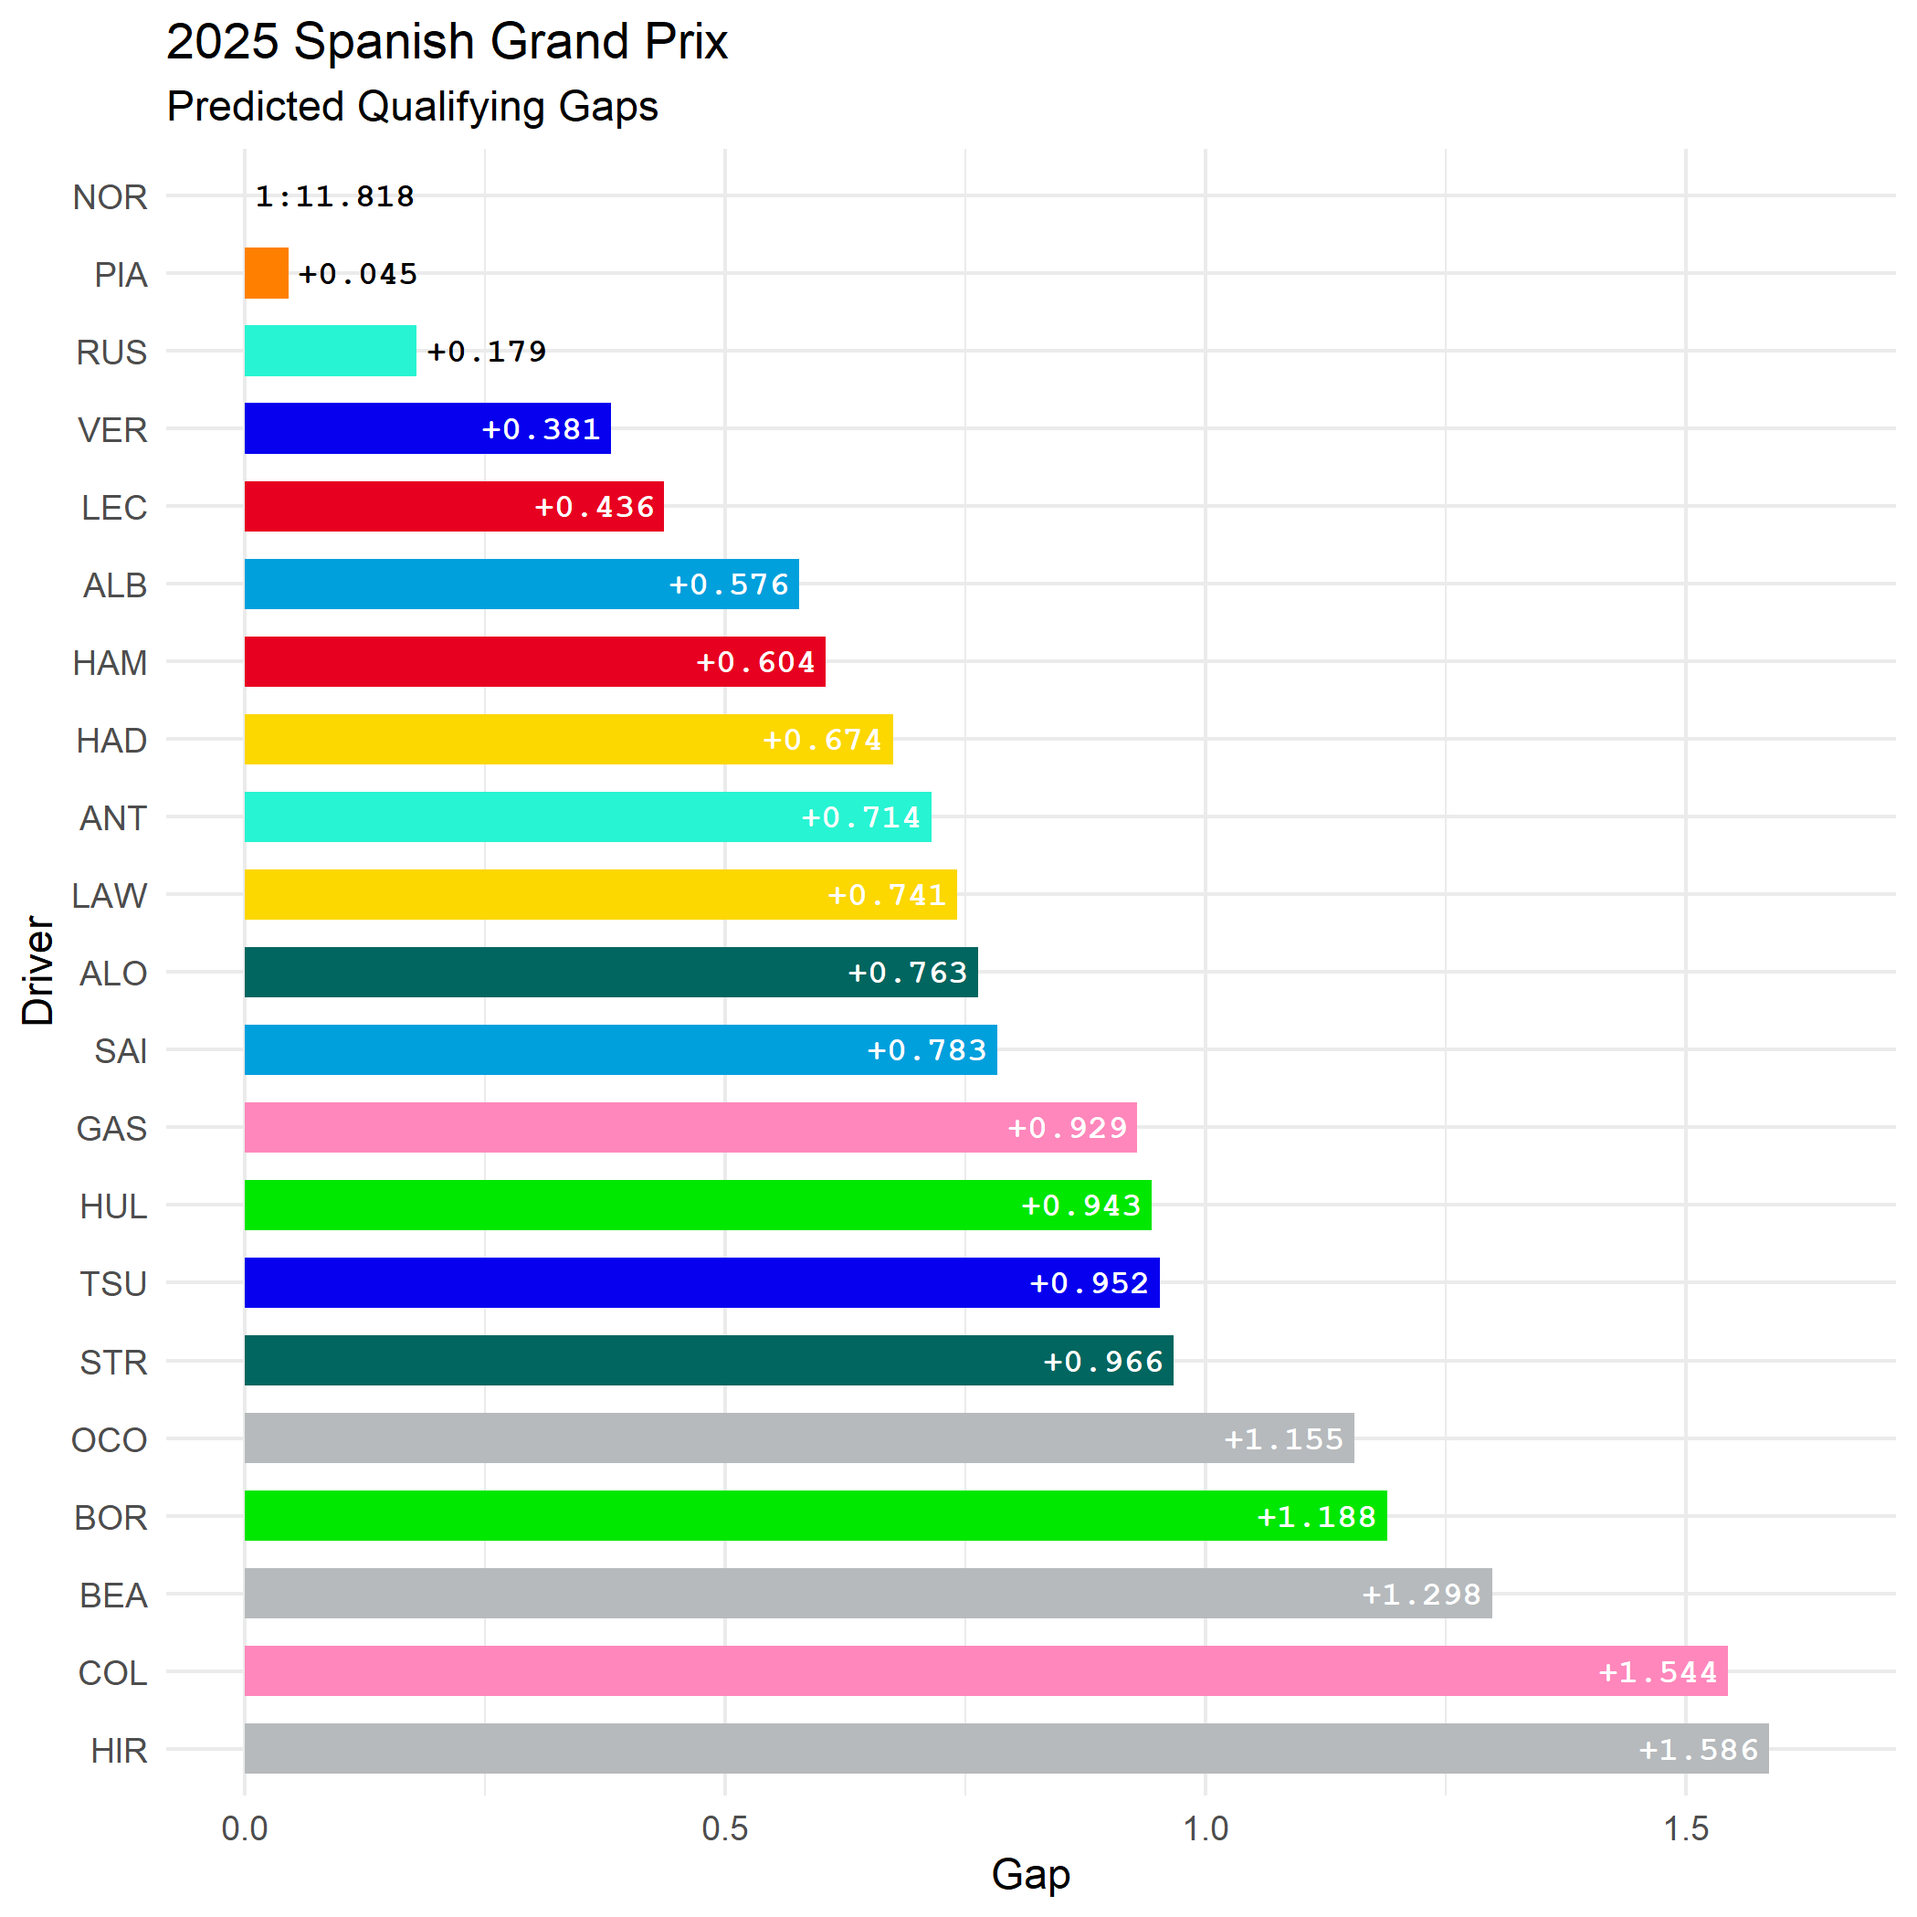
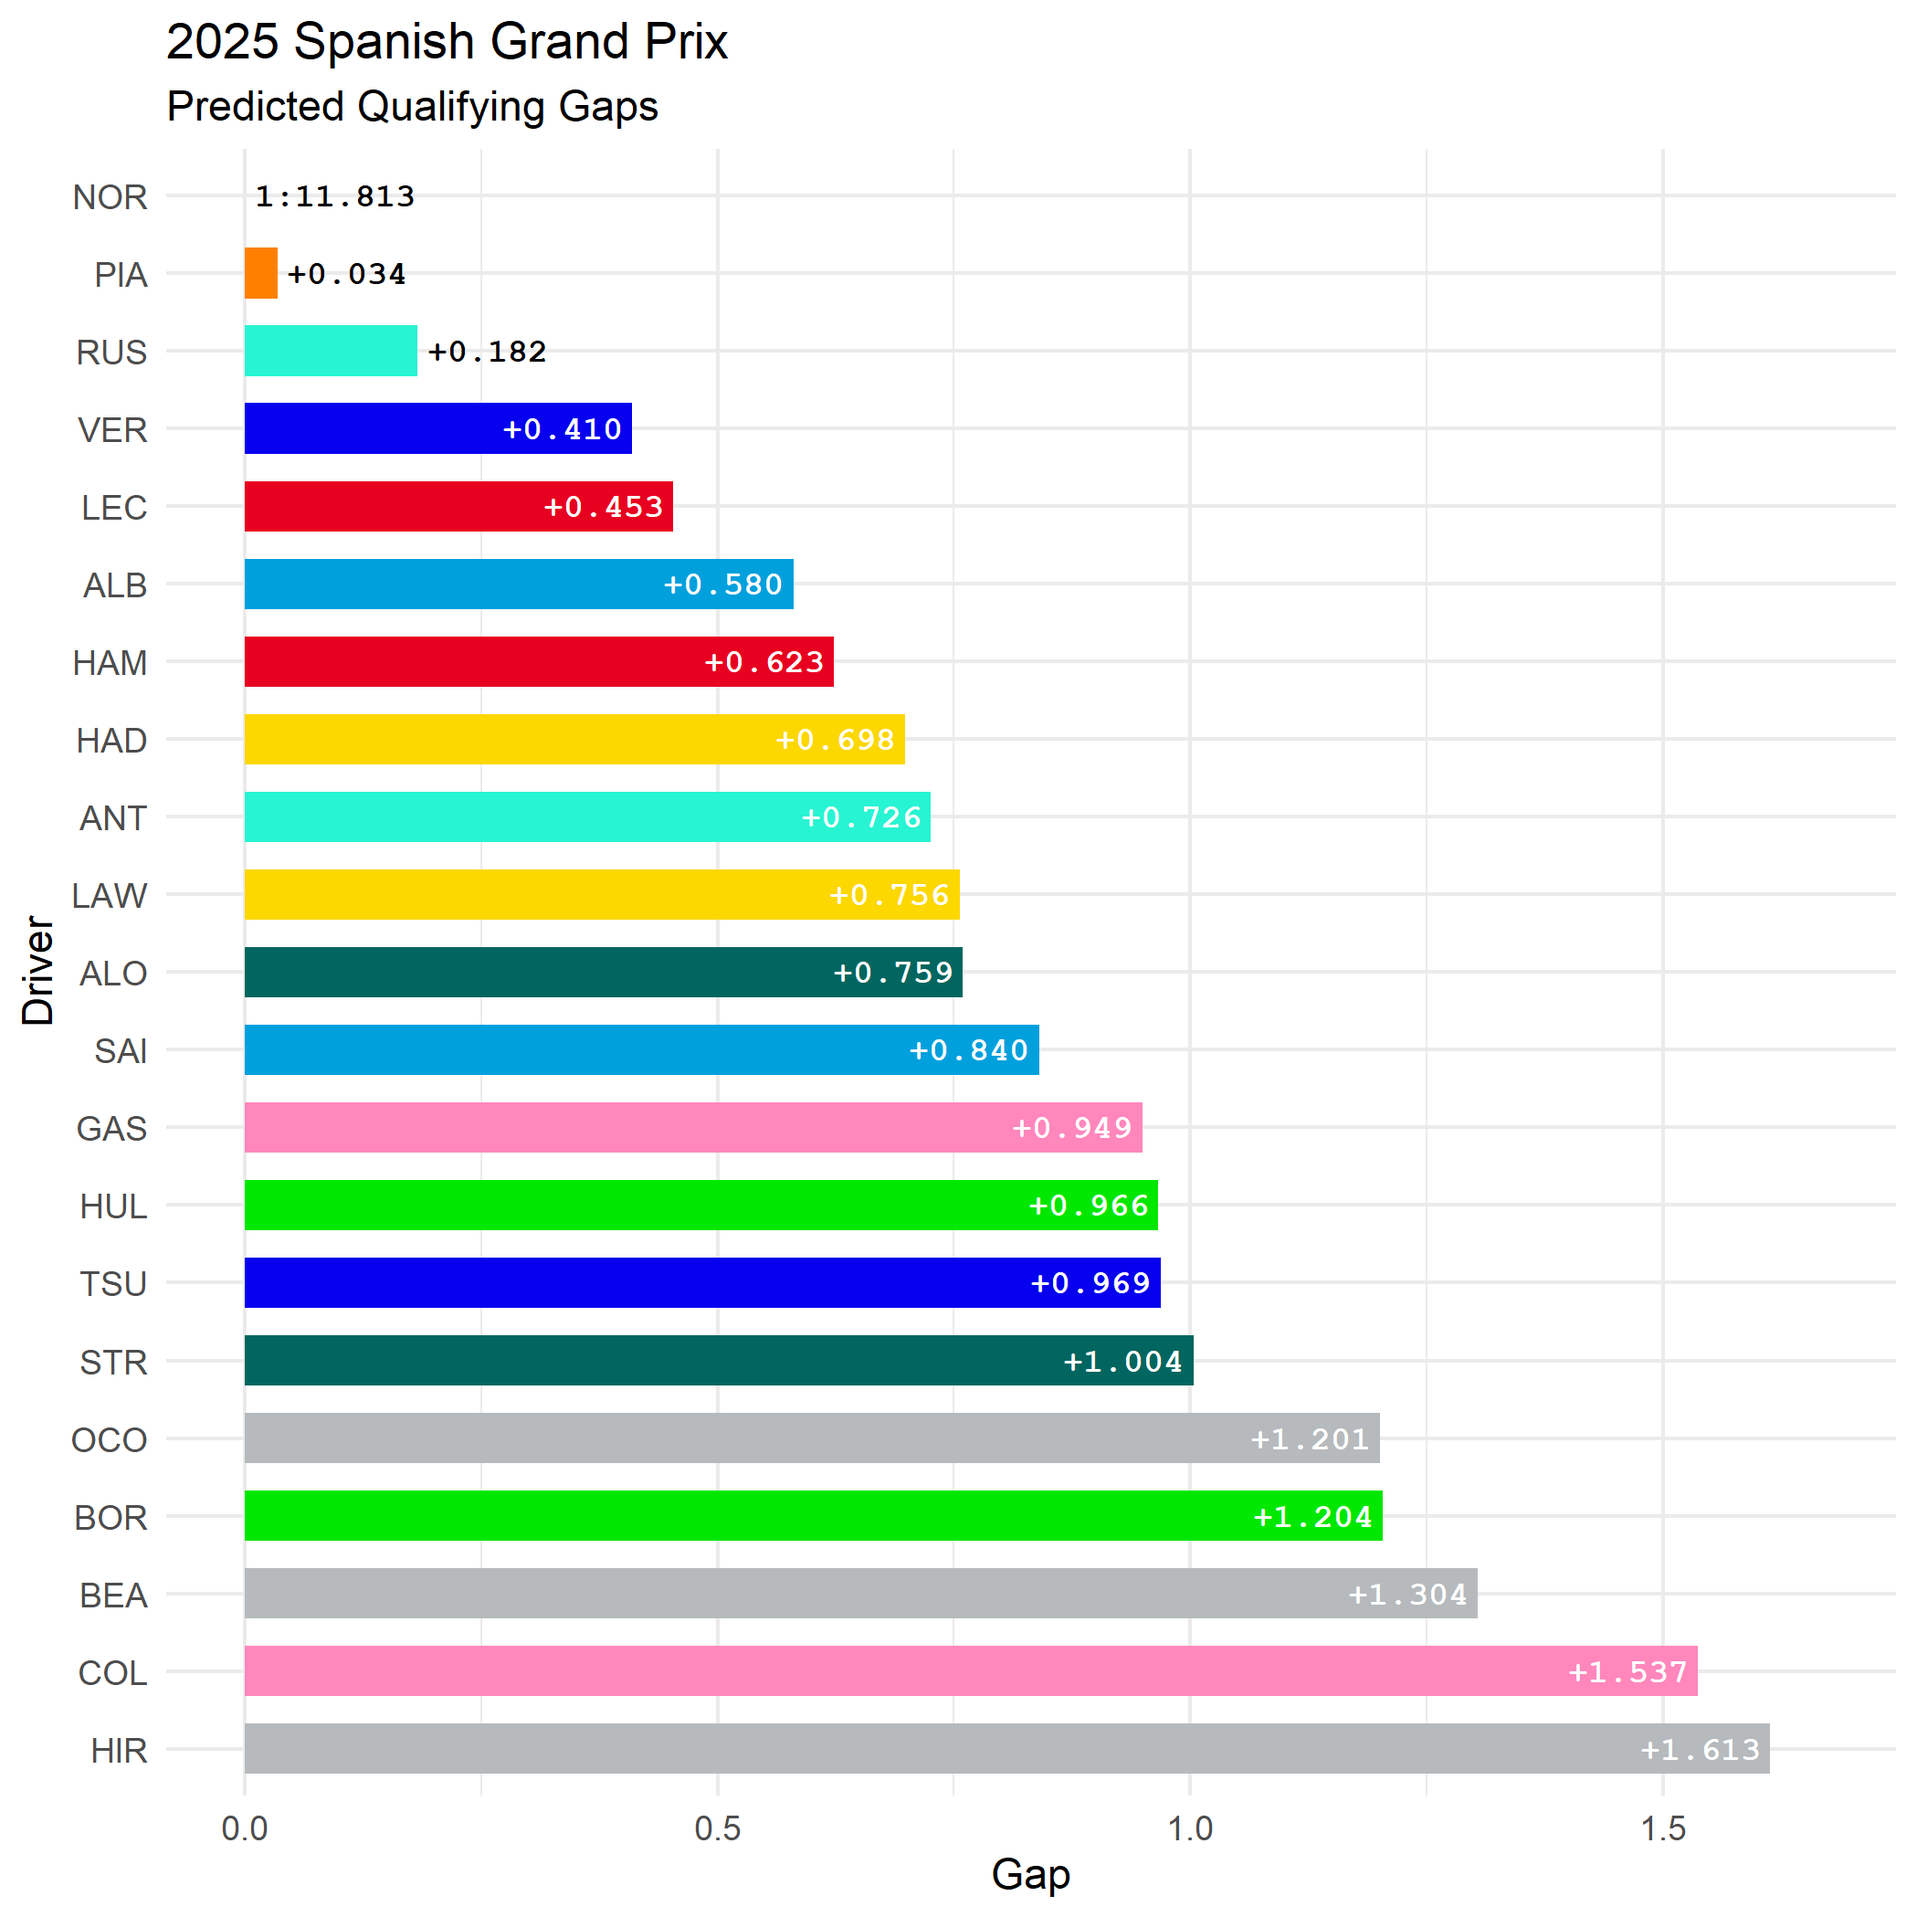
initial commit for simulation evaluation

diff --git a/README.md b/README.md
@@ -47,9 +47,23 @@ Rscript R/model.R "Spanish Grand Prix" 2025
 ```bash
 Rscript R/predict.R "Spanish Grand Prix" 2025
 ```
-A plot of the qualifying gap prediction is generated in: `plots/` :
 
-![Prediction](plots/predicted_grid_2025_Spanish_Grand_Prix.png)
+### Evaluate the prediction
+For predicted sessions that have already been completed, the simulation can be evaluated against the known finishing results. You must retrieve the relevant season qualifying lap data before evalutating the model's predictions.
+
+```bash
+python python/get_data.py --session_type Q --year 2025
+Rscript R/model.R "Spanish Grand Prix" 2025
+Rscript R/predict.R "Spanish Grand Prix" 2025
+```
+A plot of the simulated qualifying gaps and prediction evaluations are generated in the `plots/` directory:
+
+<table>
+  <tr>
+    <td><img src="plots/predicted_grid_2025_Spanish_Grand_Prix.png" width="400"/></td>
+    <td><img src="plots/evaluated_grid_2025_Spanish_Grand_Prix.png" width="400"/></td>
+  </tr>
+</table>
 
 > [!NOTE]
 > FastF1 only holds practice data beyond the 2018 season. Currently, `SOFT` is considered the qualifying tyre to align with the 2019 rule change.
